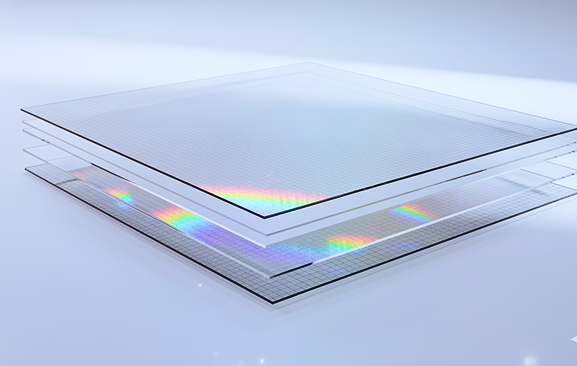
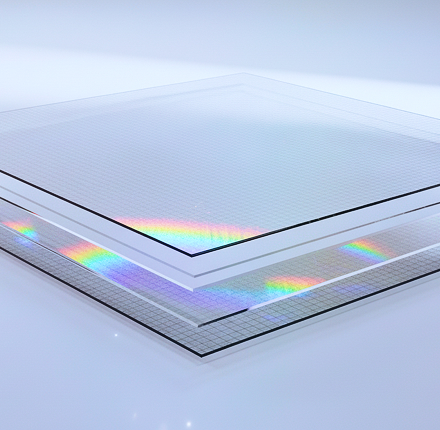
251113 rnd 수정
width 축소

diff --git a/shinwha/index.html b/shinwha/index.html
@@ -160,24 +160,24 @@
                     <div class="rnd_list" data-aos="fade-up">
                         <div class="rnd_cont tit_left" data-aos="fade-up">
                             <div class="rnd_tit">
-                                <h3>정밀한 빛의 기술, <br>
-                                    <span>Optical Technology</span></h3>
+                                <strong>Optical Technology</strong>
+                                <h3>정밀한 빛의 기술</h3>
                                 <p>정밀한 코팅과 패턴 설계 기술로 빛의 흐름을 제어하고 효율을 극대화합니다. 끊임없는 연구와 실험을 통해 더 밝고 선명한 디스플레이 환경을 구현합니다.</p>
                             </div>
                             <div class="photo"><img src="images/main/rnd01.jpg" alt=""></div>
                         </div>
                         <div class="rnd_cont tit_right" data-aos="fade-up" data-aos-delay="300">
                             <div class="rnd_tit">
-                                <h3>정밀한 접착의 기술, <br>
-                                    <span>Adhesive Technology</span></h3>
+                                <strong>Adhesive Technology</strong>
+                                <h3>정밀한 접착의 기술</h3>
                                 <p>정밀한 점·접착 코팅 기술로 부품 간 결합력을 높이고 기포 없는 Air Free Pattern 설계를 구현합니다. 끊임없는 기술 개발을 통해 방열·방수·차폐 기능을 결합한 고신뢰성 접착 솔루션을 완성합니다.</p>
                             </div>
                             <div class="photo"><img src="images/main/rnd02.jpg" alt=""></div>
                         </div>
                         <div class="rnd_cont tit_left" data-aos="fade-up" data-aos-delay="500">
                             <div class="rnd_tit">
-                                <h3>미래 소재의 가능성, <br>
-                                    <span>Elemental Technology</span></h3>
+                                <strong>Elemental Technology</strong>
+                                <h3>미래 소재의 가능성</h3>
                                 <p>고분자 소재와 UV 경화 Resin 기술을 기반으로 제품의 내구성과 기능을 한층 향상시킵니다. 정밀한 배합과 점·접착 응용 기술로 새로운 물성을 창조하며 핵심 소재 경쟁력을 확보합니다.</p>
                             </div>
                             <div class="photo"><img src="images/main/rnd03.jpg" alt=""></div>

diff --git a/shinwha/css/main.css b/shinwha/css/main.css
@@ -195,26 +195,26 @@ section .tit h2 {
 .bg_objects::before {
     content: "";
     position: absolute;
-    left: -20%;
-    top: 14%;
+    left: -12%;
+    top: 15%;
+    z-index: 1;
+    width: 700px;
+    aspect-ratio: 1;
+    border-radius: 50%;
+    background-color: rgba(0, 100, 255, 0.6);
+    filter: blur(30rem);
+}
+.bg_objects::after {
+    content: "";
+    position: absolute;
+    right: -12%;
+    top: 30%;
     z-index: 1;
     width: 600px;
     aspect-ratio: 1;
     border-radius: 50%;
     background-color: rgba(0, 100, 255, 0.6);
-    filter: blur(35rem);
-}
-.bg_objects::after {
-    content: "";
-    position: absolute;
-    right: -7%;
-    top: 28%;
-    z-index: 1;
-    width: 500px;
-    aspect-ratio: 1;
-    border-radius: 50%;
-    background-color: rgba(0, 100, 255, 0.6);
-    filter: blur(40rem);
+    filter: blur(28rem);
 }
 .bg_objects .obj3 {
     position: absolute;
@@ -242,24 +242,11 @@ section .tit h2 {
 .rnd {
     padding: 180px 0;
     position: relative; /* before, after 정렬 기준 */
-    overflow: hidden;
+    color: var(--color-white);
 }
 .rnd .wrapper {
     position: relative;
     z-index: 10;
-}
-.rnd .rnd_tit {
-    max-width: 40.55%;
-}
-.rnd .rnd_tit h3 {
-    font-size: 3.2rem;
-    font-weight: 700;
-    line-height: 1.3;
-    color: var(--color-white);
-    margin: 0 0 10px 0;
-}
-.rnd .rnd_tit h3 span {
-    color: var(--color-main);
 }
 .rnd .rnd_list {
     margin: 130px 0 0 0;
@@ -267,17 +254,34 @@ section .tit h2 {
 .rnd .rnd_cont {
     display: flex;
     justify-content: space-between;
-    align-items: center;
-}
-.rnd .rnd_cont {
-    margin: 0 0 153px 0;
+    padding: 0 107px;
+    margin: 0 0 140px 0;
 }
 .rnd .rnd_cont.tit_right {
     flex-direction: row-reverse;
 }
+.rnd .rnd_tit {
+    max-width: 42.06%;
+}
+.rnd .rnd_tit strong {
+    font-size: 1.8rem;
+    font-weight: 700;
+    line-height: 1.3;
+    color: var(--color-main);
+}
+.rnd .rnd_tit h3 {
+    font-size: 3.2rem;
+    font-weight: 700;
+    line-height: 1.3;
+    margin: 14px 0 15px 0;
+}
+.rnd .rnd_tit p {
+    font-size: 1.8rem;
+    color: var(--color-white8);
+}
 .rnd .rnd_cont .photo {
     overflow: hidden;
-    width: 577px;
+    width: 440px;
     border-radius: 20px;
     line-height: 0;
 }

diff --git a/shinwha/css/common.css b/shinwha/css/common.css
@@ -29,6 +29,7 @@
 
 html {
     font-size: 10px;
+    overflow-x: hidden;
 }
 
 body {
